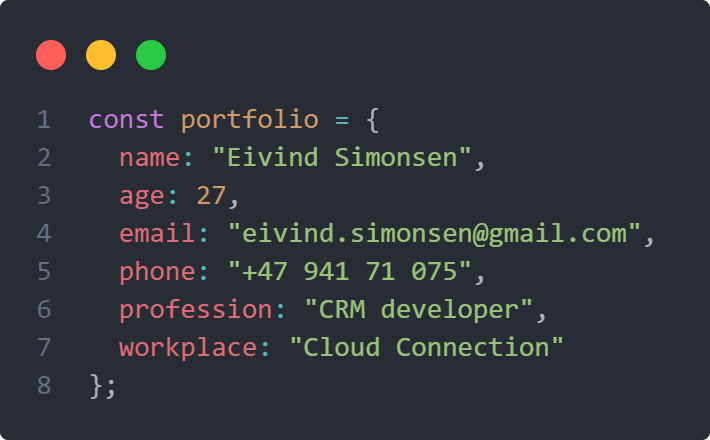
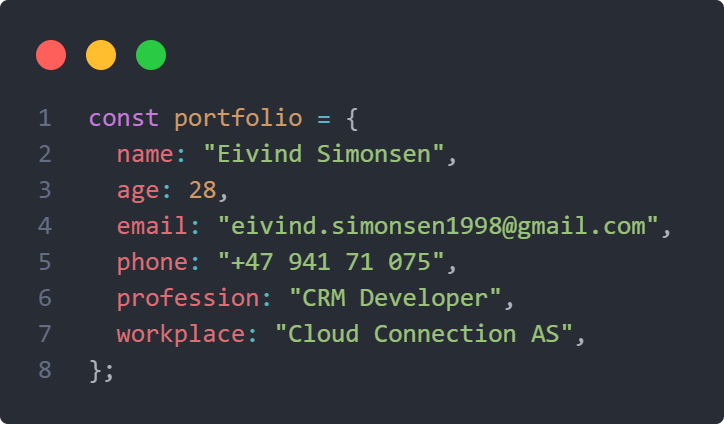
Oppdatert litt meta info + ny kunde

diff --git a/index.html b/index.html
@@ -1,19 +1,47 @@
-<!DOCTYPE html>
+<!doctype html>
 <html lang="en">
   <head>
     <meta charset="UTF-8" />
     <meta http-equiv="X-UA-Compatible" content="IE=edge" />
     <meta name="viewport" content="width=device-width, initial-scale=1.0" />
-    <meta name="description" content="My name is Eivind Simonsen, and this is my portfolio. I am junior developer and here you can see my work!" />
+    <meta
+      name="description"
+      content="My name is Eivind Simonsen, and this is my portfolio. I am junior developer and here you can see my work!"
+    />
     <title>Eivind Simonsen | Portfolio</title>
-    <script src="https://kit.fontawesome.com/8bf4111a60.js" crossorigin="anonymous"></script>
-    <link href="https://cdn.jsdelivr.net/npm/bootstrap@5.1.3/dist/css/bootstrap.min.css" rel="stylesheet" integrity="sha384-1BmE4kWBq78iYhFldvKuhfTAU6auU8tT94WrHftjDbrCEXSU1oBoqyl2QvZ6jIW3" crossorigin="anonymous" />
+    <script
+      src="https://kit.fontawesome.com/8bf4111a60.js"
+      crossorigin="anonymous"
+    ></script>
+    <link
+      href="https://cdn.jsdelivr.net/npm/bootstrap@5.1.3/dist/css/bootstrap.min.css"
+      rel="stylesheet"
+      integrity="sha384-1BmE4kWBq78iYhFldvKuhfTAU6auU8tT94WrHftjDbrCEXSU1oBoqyl2QvZ6jIW3"
+      crossorigin="anonymous"
+    />
     <link rel="preconnect" href="https://fonts.googleapis.com" />
     <link rel="preconnect" href="https://fonts.gstatic.com" crossorigin />
-    <link href="https://fonts.googleapis.com/css2?family=Roboto:wght@400;500&display=swap" rel="stylesheet" />
-    <link rel="apple-touch-icon" sizes="180x180" href="favicon/apple-touch-icon.png" />
-    <link rel="icon" type="image/png" sizes="32x32" href="favicon/favicon-32x32.png" />
-    <link rel="icon" type="image/png" sizes="16x16" href="favicon/favicon-16x16.png" />
+    <link
+      href="https://fonts.googleapis.com/css2?family=Roboto:wght@400;500&display=swap"
+      rel="stylesheet"
+    />
+    <link
+      rel="apple-touch-icon"
+      sizes="180x180"
+      href="favicon/apple-touch-icon.png"
+    />
+    <link
+      rel="icon"
+      type="image/png"
+      sizes="32x32"
+      href="favicon/favicon-32x32.png"
+    />
+    <link
+      rel="icon"
+      type="image/png"
+      sizes="16x16"
+      href="favicon/favicon-16x16.png"
+    />
     <link rel="manifest" href="favicon/site.webmanifest" />
     <link rel="stylesheet" href="https://unpkg.com/aos@next/dist/aos.css" />
     <link rel="stylesheet" href="css/style.css" />
@@ -24,7 +52,9 @@
         <div class="home__intro">
           <h1>Hello!</h1>
           <p class="home__intro--spacing">I'm <span>Eivind Simonsen</span></p>
-          <a class="cta cta--hero active-home" href="#projects">View my work <i class="fa-solid fa-arrow-down"></i></a>
+          <a class="cta cta--hero active-home" href="#projects"
+            >View my work <i class="fa-solid fa-arrow-down"></i
+          ></a>
         </div>
         <div class="home__snippet">
           <img src="./img/codesnippet.png" alt="" />
@@ -38,7 +68,12 @@
               <stop offset="100%" stop-color="rgba(0, 152, 155, 1)" />
             </linearGradient>
           </defs>
-          <path fill="url(#a)" fill-rule="evenodd" d="M1973.15 1193.185v788.41h-786.766v-688.41c0-55.228 44.772-100 100-100h686.767zm-1310.445-1.171c217.26 0 393.383 176.124 393.383 393.383v1.645c0 217.26-176.123 393.383-393.383 393.383S269.322 1804.3 269.322 1587.042v-1.645c0-217.26 176.124-393.383 393.383-393.383zm392.212-926.418v688.41c0 55.23-44.771 100-100 100H268.151v-788.41h786.766zm918.234 0v788.41h-686.767c-55.228 0-100-44.771-100-100v-688.41h786.767z" transform="rotate(22 162.072 2556.164)" />
+          <path
+            fill="url(#a)"
+            fill-rule="evenodd"
+            d="M1973.15 1193.185v788.41h-786.766v-688.41c0-55.228 44.772-100 100-100h686.767zm-1310.445-1.171c217.26 0 393.383 176.124 393.383 393.383v1.645c0 217.26-176.123 393.383-393.383 393.383S269.322 1804.3 269.322 1587.042v-1.645c0-217.26 176.124-393.383 393.383-393.383zm392.212-926.418v688.41c0 55.23-44.771 100-100 100H268.151v-788.41h786.766zm918.234 0v788.41h-686.767c-55.228 0-100-44.771-100-100v-688.41h786.767z"
+            transform="rotate(22 162.072 2556.164)"
+          />
         </svg>
       </div>
     </header>
@@ -47,7 +82,15 @@
       <nav class="navbar navbar-expand-lg">
         <div class="container-fluid">
           <a class="navbar-brand" href="#"></a>
-          <button class="navbar-toggler" type="button" data-bs-toggle="collapse" data-bs-target="#navbarNav" aria-controls="navbarNav" aria-expanded="false" aria-label="Toggle navigation">
+          <button
+            class="navbar-toggler"
+            type="button"
+            data-bs-toggle="collapse"
+            data-bs-target="#navbarNav"
+            aria-controls="navbarNav"
+            aria-expanded="false"
+            aria-label="Toggle navigation"
+          >
             <span class="navbar-toggler-icon">
               <i class="fas fa-bars"></i>
             </span>
@@ -55,19 +98,27 @@
           <div class="collapse navbar-collapse" id="navbarNav">
             <ul class="navbar-nav">
               <li class="nav-item">
-                <a class="nav-link home-btn" aria-current="page" href="#">Home</a>
+                <a class="nav-link home-btn" aria-current="page" href="#"
+                  >Home</a
+                >
               </li>
               <li class="nav-item">
                 <a class="nav-link active-about" href="#about">About</a>
               </li>
               <li class="nav-item">
-                <a class="nav-link active-projects" href="#projects">Projects</a>
+                <a class="nav-link active-projects" href="#projects"
+                  >Projects</a
+                >
               </li>
               <li class="nav-item">
-                <a class="nav-link active-certificates" href="#certificates">Certificates</a>
+                <a class="nav-link active-certificates" href="#certificates"
+                  >Certificates</a
+                >
               </li>
               <li class="nav-item">
-                <a class="nav-link active-contact" href="#customers">Customers</a>
+                <a class="nav-link active-contact" href="#customers"
+                  >Customers</a
+                >
               </li>
             </ul>
           </div>
@@ -84,8 +135,14 @@
           </div>
           <div class="description__text">
             <h3>This is me</h3>
-            <p>My name is Eivind Aleksander Simonsen, and I am a 27-year-old CRM developer who currently works at Cloud Connection</p>
-            <p>Everyday I work with the SuperOffice CRM system, and I created extensions for the system to fit our clients needs.</p>
+            <p>
+              My name is Eivind Aleksander Simonsen, and I am a 28-year-old CRM
+              developer who currently works at Cloud Connection
+            </p>
+            <p>
+              Everyday I work with the SuperOffice CRM system, and I created
+              extensions for the system to fit our clients needs.
+            </p>
           </div>
         </div>
 
@@ -103,7 +160,10 @@
             <i class="fas fa-history"></i>
             <div class="hexagon__text effectivity">
               <h4>Effectivity</h4>
-              <p>Always focused on the task at hand and always looking for new ways to improve.</p>
+              <p>
+                Always focused on the task at hand and always looking for new
+                ways to improve.
+              </p>
             </div>
           </div>
           <div data-aos="fade-up" class="hexagon">
@@ -126,31 +186,52 @@
           <h2 class="smaller-title">Skillset</h2>
         </div>
         <div class="skillset container row">
-          <div data-aos="fade-up" class="skillset__container col-sm-12 col-md-6 col-lg-4">
+          <div
+            data-aos="fade-up"
+            class="skillset__container col-sm-12 col-md-6 col-lg-4"
+          >
             <h3>HTML</h3>
             <i class="fab fa-html5"></i>
           </div>
-          <div data-aos="fade-up" class="skillset__container col-sm-12 col-md-6 col-lg-4">
+          <div
+            data-aos="fade-up"
+            class="skillset__container col-sm-12 col-md-6 col-lg-4"
+          >
             <h3>CSS</h3>
             <i class="fab fa-css3-alt"></i>
           </div>
-          <div data-aos="fade-up" class="skillset__container col-sm-12 col-md-6 col-lg-4">
+          <div
+            data-aos="fade-up"
+            class="skillset__container col-sm-12 col-md-6 col-lg-4"
+          >
             <h3>Javascript</h3>
             <i class="fab fa-js-square"></i>
           </div>
-          <div data-aos="fade-up" class="skillset__container col-sm-12 col-md-6 col-lg-4">
+          <div
+            data-aos="fade-up"
+            class="skillset__container col-sm-12 col-md-6 col-lg-4"
+          >
             <h3>SASS</h3>
             <i class="fab fa-sass"></i>
           </div>
-          <div data-aos="fade-up" class="skillset__container col-sm-12 col-md-6 col-lg-4">
+          <div
+            data-aos="fade-up"
+            class="skillset__container col-sm-12 col-md-6 col-lg-4"
+          >
             <h3>React</h3>
             <i class="fab fa-react"></i>
           </div>
-          <div data-aos="fade-up" class="skillset__container col-sm-12 col-md-6 col-lg-4">
+          <div
+            data-aos="fade-up"
+            class="skillset__container col-sm-12 col-md-6 col-lg-4"
+          >
             <h3>Vue</h3>
             <i class="fa-brands fa-vuejs"></i>
           </div>
-          <div data-aos="fade-up" class="skillset__container col-sm-12 col-md-6 col-lg-4">
+          <div
+            data-aos="fade-up"
+            class="skillset__container col-sm-12 col-md-6 col-lg-4"
+          >
             <h3>Database</h3>
             <i class="fa-solid fa-database"></i>
           </div>
@@ -169,7 +250,10 @@
           <h2 class="smaller-title">Certificates</h2>
         </div>
         <div class="projects-container certificate">
-          <img src="./img/mimo-diplom-bilde.jpeg" alt="Certificate for web dev course" />
+          <img
+            src="./img/mimo-diplom-bilde.jpeg"
+            alt="Certificate for web dev course"
+          />
           <img src="./img/sql-diplom.jpg" alt="Certificate for sql course" />
         </div>
       </section>
@@ -212,14 +296,26 @@
     <footer>
       <ul class="nav justify-content-center">
         <li class="nav-item" id="socials">
-          <a class="nav-link" href="https://www.linkedin.com/in/eivind-simonsen-9469121b9/"><i class="fab fa-linkedin"></i></a>
+          <a
+            class="nav-link"
+            href="https://www.linkedin.com/in/eivind-simonsen-9469121b9/"
+            ><i class="fab fa-linkedin"></i
+          ></a>
         </li>
         <li class="nav-item" id="socials">
-          <a class="nav-link" href="https://github.com/EivindSimonsen?tab=repositories"><i class="fab fa-github"></i></a>
+          <a
+            class="nav-link"
+            href="https://github.com/EivindSimonsen?tab=repositories"
+            ><i class="fab fa-github"></i
+          ></a>
         </li>
       </ul>
     </footer>
-    <script src="https://cdn.jsdelivr.net/npm/bootstrap@5.1.3/dist/js/bootstrap.bundle.min.js" integrity="sha384-ka7Sk0Gln4gmtz2MlQnikT1wXgYsOg+OMhuP+IlRH9sENBO0LRn5q+8nbTov4+1p" crossorigin="anonymous"></script>
+    <script
+      src="https://cdn.jsdelivr.net/npm/bootstrap@5.1.3/dist/js/bootstrap.bundle.min.js"
+      integrity="sha384-ka7Sk0Gln4gmtz2MlQnikT1wXgYsOg+OMhuP+IlRH9sENBO0LRn5q+8nbTov4+1p"
+      crossorigin="anonymous"
+    ></script>
     <script src="js/script.js" type="module"></script>
     <script src="https://unpkg.com/aos@next/dist/aos.js"></script>
     <script>

diff --git a/js/codesnap.js b/js/codesnap.js
@@ -1,0 +1,8 @@
+const portfolio = {
+  name: "Eivind Simonsen",
+  age: 28,
+  email: "eivind.simonsen1998@gmail.com",
+  phone: "+47 941 71 075",
+  profession: "CRM Developer",
+  workplace: "Cloud Connection AS",
+};

diff --git a/js/components/customersArray.js b/js/components/customersArray.js
@@ -27,5 +27,9 @@ export const customers = [
     name: "Eiendomsfinans",
     image: "../../img/customers/ef.jpg",
   },
+  {
+    name: "Norges sjømatråd",
+    image: "../../img/customers/ns.webp",
+  },
 ];
 
